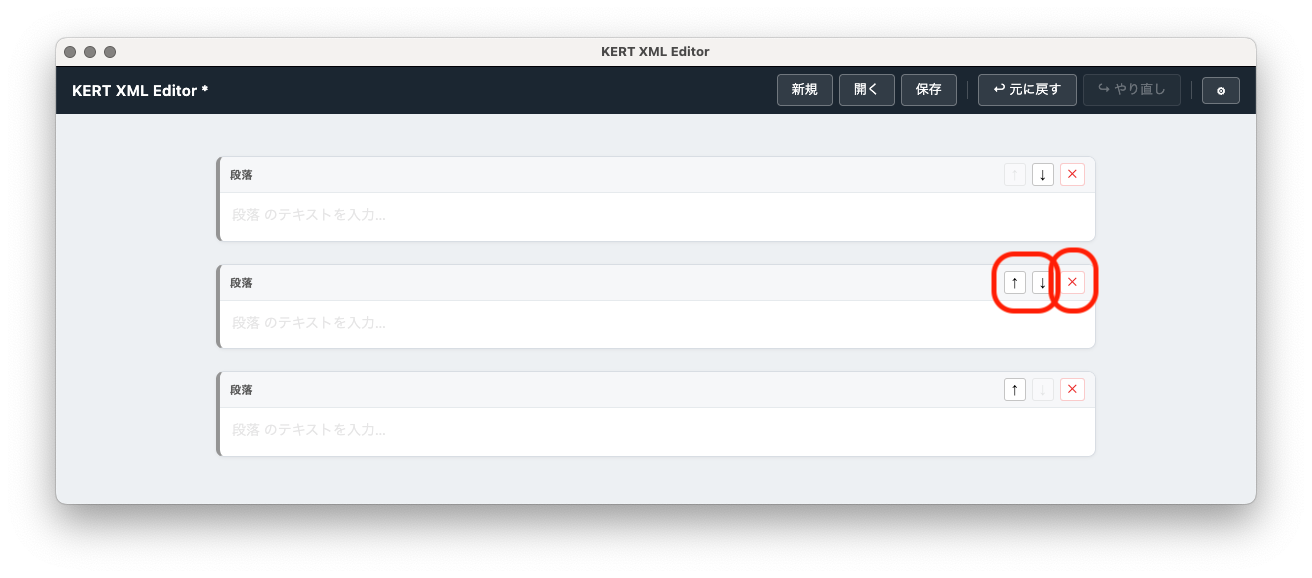
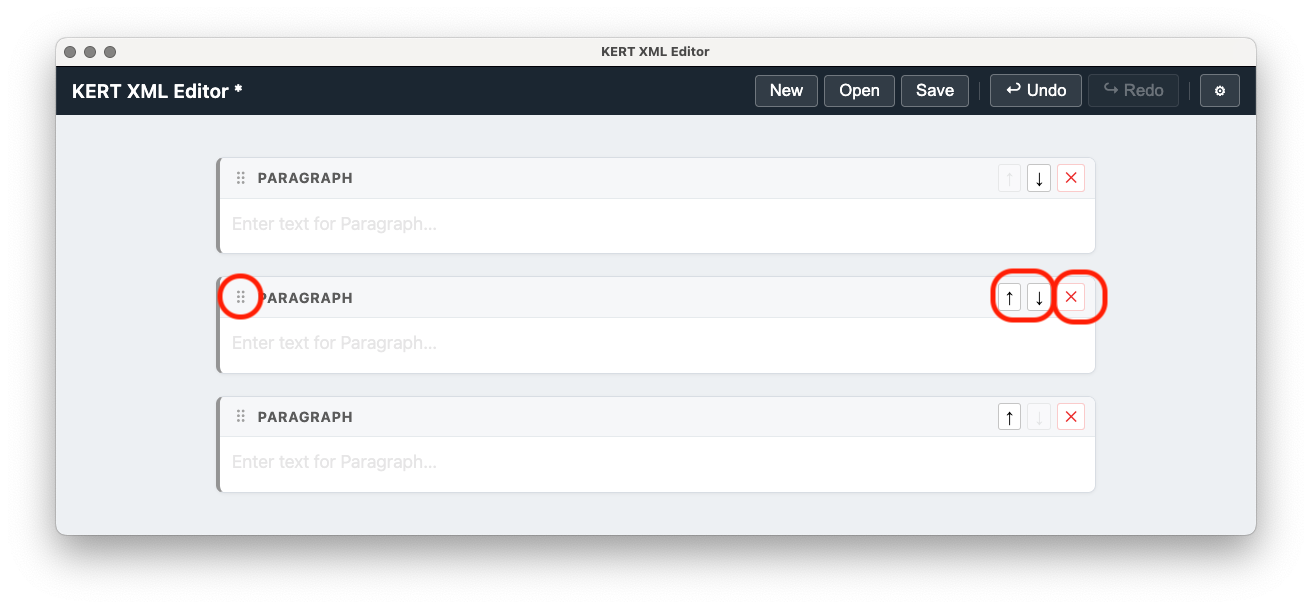
Update to v1.1.0: drag-and-drop open and block reorder

diff --git a/src/renderer/src/components/BlockList.tsx b/src/renderer/src/components/BlockList.tsx
@@ -21,6 +21,8 @@ export default function BlockList({ blocks, onChange }: Props): React.ReactEleme
   const [insertAt, setInsertAt] = useState<number | null>(null)
   /** Whether the table-creation form is waiting for row/col input. */
   const [pendingTable, setPendingTable] = useState(false)
+  const [draggedId, setDraggedId] = useState<string | null>(null)
+  const [dragOverSep, setDragOverSep] = useState<number | null>(null)
   const [tableRows, setTableRows] = useState(3)
   const [tableCols, setTableCols] = useState(3)
 
@@ -82,8 +84,35 @@ export default function BlockList({ blocks, onChange }: Props): React.ReactEleme
     onChange(blocks.map(b => b.id === updated.id ? updated : b))
   }, [blocks, onChange])
 
+  const reorderBlock = useCallback((droppedAtSep: number) => {
+    if (draggedId === null) return
+    const draggedIdx = blocks.findIndex(b => b.id === draggedId)
+    if (draggedIdx < 0) return
+    const next = [...blocks]
+    const [removed] = next.splice(draggedIdx, 1)
+    const insertIdx = droppedAtSep > draggedIdx ? droppedAtSep - 1 : droppedAtSep
+    next.splice(insertIdx, 0, removed)
+    onChange(next)
+    setDraggedId(null)
+    setDragOverSep(null)
+  }, [draggedId, blocks, onChange])
+
   // ── Separator renderer ─────────────────────────────────────────────────
   const renderSeparator = (index: number): React.ReactElement => {
+    const isDragging = draggedId !== null
+    const isDropTarget = dragOverSep === index
+
+    if (isDragging) {
+      return (
+        <div
+          className={`insert-separator${isDropTarget ? ' drag-target' : ''}`}
+          onDragOver={(e) => { e.preventDefault(); setDragOverSep(index) }}
+          onDragLeave={() => setDragOverSep(null)}
+          onDrop={(e) => { e.preventDefault(); e.stopPropagation(); reorderBlock(index) }}
+        />
+      )
+    }
+
     if (insertAt === index) {
       return (
         <div className="insert-separator active">
@@ -138,6 +167,9 @@ export default function BlockList({ blocks, onChange }: Props): React.ReactEleme
                 onMoveUp={() => moveBlock(block.id, 'up')}
                 onMoveDown={() => moveBlock(block.id, 'down')}
                 onChange={updateBlock}
+                isDragging={draggedId === block.id}
+                onDragStart={() => setDraggedId(block.id)}
+                onDragEnd={() => { setDraggedId(null); setDragOverSep(null) }}
               />
               {renderSeparator(idx + 1)}
             </React.Fragment>

diff --git a/src/renderer/src/App.tsx b/src/renderer/src/App.tsx
@@ -13,6 +13,7 @@ export default function App(): React.ReactElement {
   const [error, setError] = useState<string | null>(null)
   const [isDirty, setIsDirty] = useState(false)
   const [showSettings, setShowSettings] = useState(false)
+  const [isDragOver, setIsDragOver] = useState(false)
   const { t } = useSettings()
 
   // ── Close confirmation ─────────────────────────────────────────────────
@@ -71,13 +72,51 @@ export default function App(): React.ReactElement {
     setIsDirty(false)
   }, [isDirty, resetBlocks])
 
+  const handleDragOver = useCallback((e: React.DragEvent) => {
+    e.preventDefault()
+    e.stopPropagation()
+    if (e.dataTransfer.types.includes('Files')) setIsDragOver(true)
+  }, [])
+
+  const handleDragLeave = useCallback((e: React.DragEvent) => {
+    e.preventDefault()
+    e.stopPropagation()
+    if (!e.currentTarget.contains(e.relatedTarget as Node)) setIsDragOver(false)
+  }, [])
+
+  const handleDrop = useCallback(async (e: React.DragEvent) => {
+    e.preventDefault()
+    e.stopPropagation()
+    setIsDragOver(false)
+    const file = e.dataTransfer.files[0]
+    if (!file || !file.name.endsWith('.xml')) {
+      setError(t('error.dropNotXml'))
+      return
+    }
+    if (isDirty && !window.confirm(t('confirm.openUnsaved'))) return
+    const xml = await file.text()
+    const result = validateXml(xml)
+    if (!result.valid) {
+      setError(`${t('error.xmlValidation')}\n${result.errors.join('\n')}`)
+      return
+    }
+    setError(null)
+    resetBlocks(parseXmlToBlocks(xml))
+    setIsDirty(false)
+  }, [isDirty, resetBlocks, t])
+
   const handleSave = useCallback(async () => {
     const ok = await window.electronAPI.saveFile(serializeBlocksToXml(blocks))
     if (ok) setIsDirty(false)
   }, [blocks])
 
   return (
-    <div className="app">
+    <div
+      className={`app${isDragOver ? ' drag-over' : ''}`}
+      onDragOver={handleDragOver}
+      onDragLeave={handleDragLeave}
+      onDrop={handleDrop}
+    >
       <header className="toolbar">
         <span className="app-title">KERT XML Editor{isDirty ? ' *' : ''}</span>
         <div className="toolbar-actions">
@@ -104,6 +143,11 @@ export default function App(): React.ReactElement {
       </main>
 
       {showSettings && <SettingsDialog onClose={() => setShowSettings(false)} />}
+      {isDragOver && (
+        <div className="drop-overlay">
+          <span>{t('drop.overlay')}</span>
+        </div>
+      )}
     </div>
   )
 }

diff --git a/src/renderer/src/components/BlockItem.tsx b/src/renderer/src/components/BlockItem.tsx
@@ -12,10 +12,14 @@ interface Props {
   onMoveUp: () => void
   onMoveDown: () => void
   onChange: (updated: Block) => void
+  isDragging: boolean
+  onDragStart: () => void
+  onDragEnd: () => void
 }
 
 export default function BlockItem({
-  block, isFirst, isLast, onRemove, onMoveUp, onMoveDown, onChange
+  block, isFirst, isLast, onRemove, onMoveUp, onMoveDown, onChange,
+  isDragging, onDragStart, onDragEnd
 }: Props): React.ReactElement {
   const { t } = useSettings()
 
@@ -28,8 +32,15 @@ export default function BlockItem({
   }
 
   return (
-    <div className={`block-item block-type-${block.type}`}>
+    <div className={`block-item block-type-${block.type}${isDragging ? ' is-dragging' : ''}`}>
       <div className="block-controls">
+        <span
+          className="drag-handle"
+          draggable
+          onDragStart={(e) => { e.stopPropagation(); onDragStart() }}
+          onDragEnd={onDragEnd}
+          title="ドラッグして並び替え"
+        >⠿</span>
         <span className="block-label">{t(`block.${block.type}`)}</span>
         <button onClick={onMoveUp} disabled={isFirst} title={t('block.moveUp')} className="btn-icon">↑</button>
         <button onClick={onMoveDown} disabled={isLast} title={t('block.moveDown')} className="btn-icon">↓</button>

diff --git a/src/renderer/src/i18n/translations.ts b/src/renderer/src/i18n/translations.ts
@@ -17,6 +17,8 @@ const ja: TMap = {
   'confirm.openUnsaved': '保存されていない変更があります。破棄して開きますか？',
   'error.xmlValidation': 'XML の妥当性検証に失敗しました:',
   'error.close': '閉じる',
+  'error.dropNotXml': 'XMLファイル(.xml)をドロップしてください',
+  'drop.overlay': 'XMLファイルをドロップ',
   // Block types
   'block.title1': '見出し1',
   'block.title2': '見出し2',
@@ -126,6 +128,8 @@ const en: TMap = {
   'confirm.openUnsaved': 'You have unsaved changes. Discard and open?',
   'error.xmlValidation': 'XML validation failed:',
   'error.close': 'Close',
+  'error.dropNotXml': 'Please drop an XML file (.xml)',
+  'drop.overlay': 'Drop XML file here',
   // Block types
   'block.title1': 'Heading 1',
   'block.title2': 'Heading 2',
@@ -235,6 +239,8 @@ const de: TMap = {
   'confirm.openUnsaved': 'Es gibt ungespeicherte Änderungen. Verwerfen und öffnen?',
   'error.xmlValidation': 'XML-Validierung fehlgeschlagen:',
   'error.close': 'Schließen',
+  'error.dropNotXml': 'Bitte eine XML-Datei (.xml) ablegen',
+  'drop.overlay': 'XML-Datei hier ablegen',
   // Block types
   'block.title1': 'Überschrift 1',
   'block.title2': 'Überschrift 2',

diff --git a/src/renderer/src/index.css b/src/renderer/src/index.css
@@ -15,6 +15,52 @@ body {
 /* ── App Layout ── */
 .app { display: flex; flex-direction: column; height: 100vh; overflow: hidden; }
 
+/* ── Drag handle ── */
+.drag-handle {
+  cursor: grab;
+  padding: 0 4px;
+  color: #aaa;
+  font-size: 1.1em;
+  user-select: none;
+  line-height: 1;
+}
+.drag-handle:active { cursor: grabbing; }
+
+/* ── Dragging block ── */
+.block-item.is-dragging { opacity: 0.4; }
+
+/* ── Drop target separator ── */
+.insert-separator.drag-target {
+  min-height: 20px;
+  display: flex;
+  align-items: center;
+  margin: 0;
+}
+.insert-separator.drag-target::after {
+  content: '';
+  display: block;
+  flex: 1;
+  height: 3px;
+  background: #0064ff;
+  border-radius: 2px;
+}
+
+/* ── Drop Overlay ── */
+.drop-overlay {
+  position: fixed;
+  inset: 0;
+  background: rgba(0, 100, 255, 0.12);
+  border: 3px dashed #0064ff;
+  display: flex;
+  align-items: center;
+  justify-content: center;
+  font-size: 1.5rem;
+  font-weight: bold;
+  color: #0064ff;
+  pointer-events: none;
+  z-index: 1000;
+}
+
 /* ── Toolbar ── */
 .toolbar {
   display: flex; align-items: center; justify-content: space-between;

diff --git a/src/main/index.ts b/src/main/index.ts
@@ -48,6 +48,8 @@ function createWindow(): void {
     }
   })
 
+  mainWindow.webContents.on('will-navigate', (e) => e.preventDefault())
+
   if (process.env['ELECTRON_RENDERER_URL']) {
     mainWindow.loadURL(process.env['ELECTRON_RENDERER_URL'])
   } else {

diff --git a/README_de.md b/README_de.md
@@ -71,7 +71,7 @@ Die horizontale Trennlinie im obigen Bild erscheint beim Darüberfahren mit dem 
 
 ![Blöcke](docs/images/blocks.png)
 
-- **Sortieren**: Blöcke nach oben oder unten verschieben
+- **Sortieren**: Das ⠿-Handle am linken Rand eines Blocks ziehen zum Neuanordnen, oder die ↑↓-Schaltflächen zum Verschieben verwenden
 - **Löschen**: Nicht benötigte Blöcke entfernen
 
 ![Verschieben und Löschen](docs/images/move_and_delete.png)
@@ -128,6 +128,7 @@ Die horizontale Trennlinie im obigen Bild erscheint beim Darüberfahren mit dem 
 ### Dateioperationen
 
 - XML-Dateien neu erstellen, speichern und öffnen
+- XML-Dateien können durch Drag & Drop auf das Anwendungsfenster geöffnet werden
 - Beim Öffnen wird eine Validierung gegen `document_schema.xsd` durchgeführt; nicht konforme Dateien werden abgelehnt
 
 ![Dateioperationen](docs/images/file_operation.png)

diff --git a/README_ja.md b/README_ja.md
@@ -71,7 +71,7 @@ npm run build:win
 
 ![並んだブロック](docs/images/blocks.png)
 
-- **並び替え**: ブロックを上下に移動
+- **並び替え**: ブロック左端の ⠿ ハンドルをドラッグして並び替え、または ↑↓ ボタンで上下に移動
 - **削除**: 不要なブロックを削除
 
 ![並び替えと削除](docs/images/move_and_delete.png)
@@ -129,6 +129,7 @@ npm run build:win
 ### ファイル操作
 
 - XML ファイルの新規作成・保存・読み込み
+- XML ファイルをウィンドウにドラッグ＆ドロップして開くことができます
 - 読み込み時に `document_schema.xsd` に基づく妥当性検証を実施。スキーマに準拠しないファイルは読み込みを拒否します
 
 ![ファイル操作](docs/images/file_operation.png)

diff --git a/README.md b/README.md
@@ -71,7 +71,7 @@ The horizontal divider in the image above appears when you hover over it.
 
 ![Blocks](docs/images/blocks.png)
 
-- **Reorder**: Move blocks up or down
+- **Reorder**: Drag the ⠿ handle at the left of a block to reorder it, or use the ↑↓ buttons to move it up or down
 - **Delete**: Remove unwanted blocks
 
 ![Reorder and delete](docs/images/move_and_delete.png)
@@ -128,6 +128,7 @@ The horizontal divider in the image above appears when you hover over it.
 ### File Operations
 
 - Create, save, and open XML files
+- XML files can be opened by dragging and dropping them onto the application window
 - Validation against `document_schema.xsd` is performed on load; files that do not conform to the schema are rejected
 
 ![File operations](docs/images/file_operation.png)
